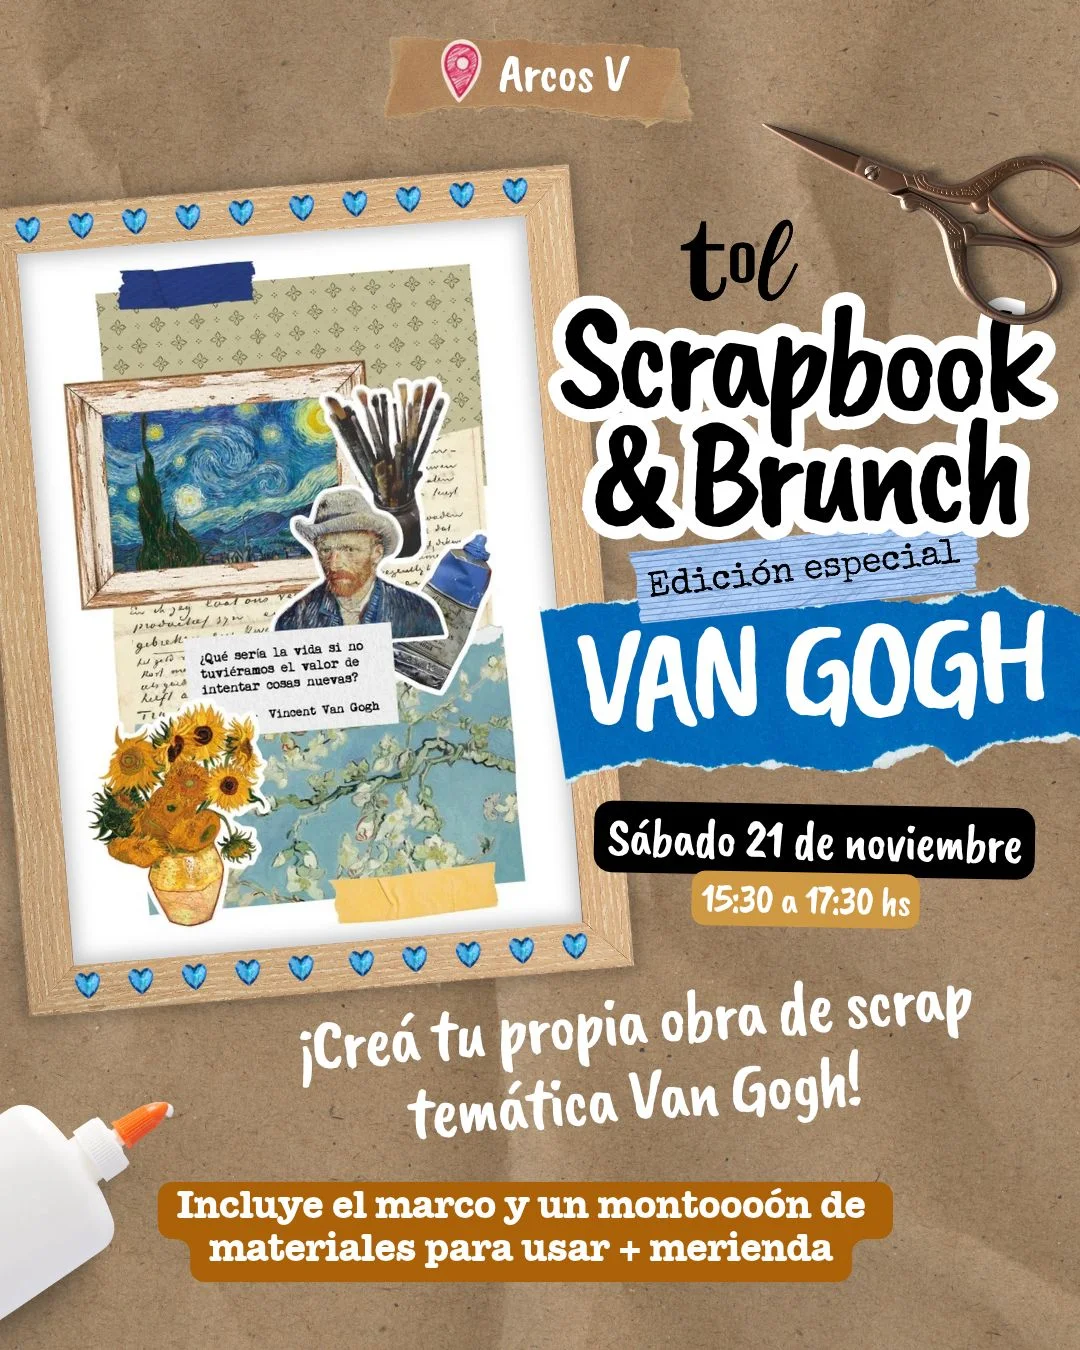
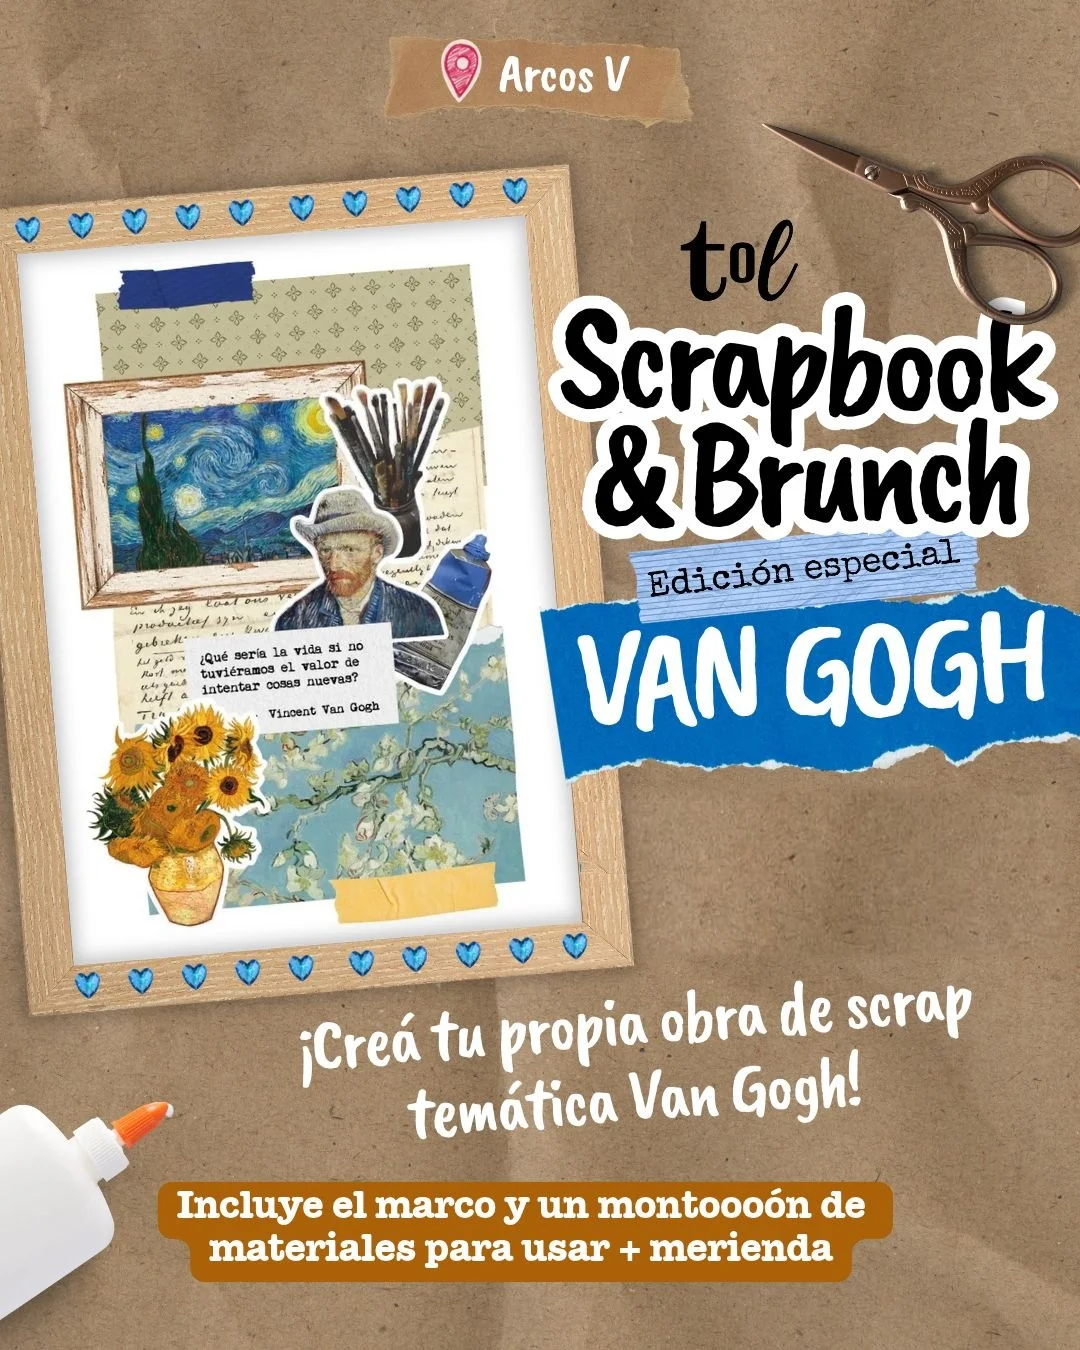
Scrapbook Van Gogh: flyer sin fecha
Claude-Session: https://claude.ai/code/session_01BHQShBsDDWN6GNS1bxQJ2C

Changed region(s): [[0.55, 0.5911, 0.9778, 0.7156]]

diff --git a/talleres-de-scrapbook.html b/talleres-de-scrapbook.html
@@ -291,7 +291,7 @@
                 <p>Próximamente habrá nuevas fechas.</p>
             </div>
 
-            <img class="foto-edicion" src="scrapbook-vangogh-nov26.webp" alt="Flyer de Scrapbook &amp; Brunch, edición especial Van Gogh: sábado 21 de noviembre de 15:30 a 17:30 hs en Arcos V" loading="lazy" style="max-width: 480px;">
+            <img class="foto-edicion" src="scrapbook-vangogh-nov26.webp" alt="Flyer de Scrapbook &amp; Brunch, edición especial Van Gogh, con TOL en Arcos V" loading="lazy" style="max-width: 480px;">
 
             <a href="https://wa.me/5491138450230?text=Hola!%20Quiero%20info%20del%20Scrapbook%20%26%20Brunch%20edici%C3%B3n%20Van%20Gogh%20del%2021%2F11%20en%20Arcos%20V." target="_blank" rel="noopener" class="btn-ws">Consultar por WhatsApp</a>
         </div>
